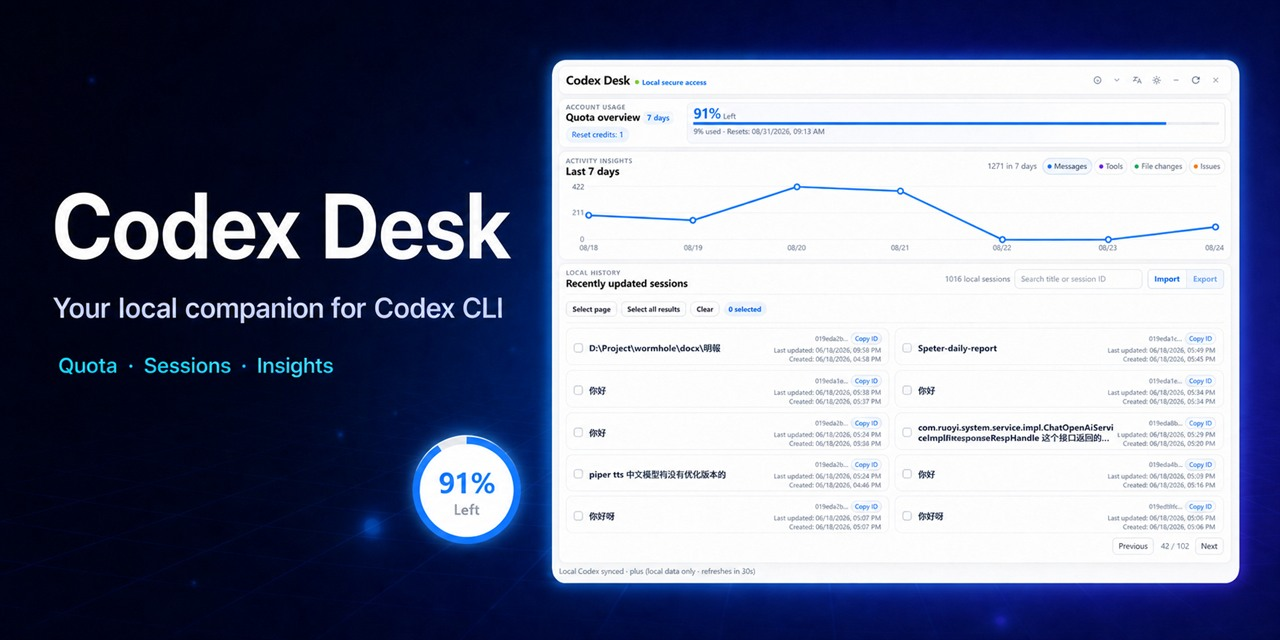
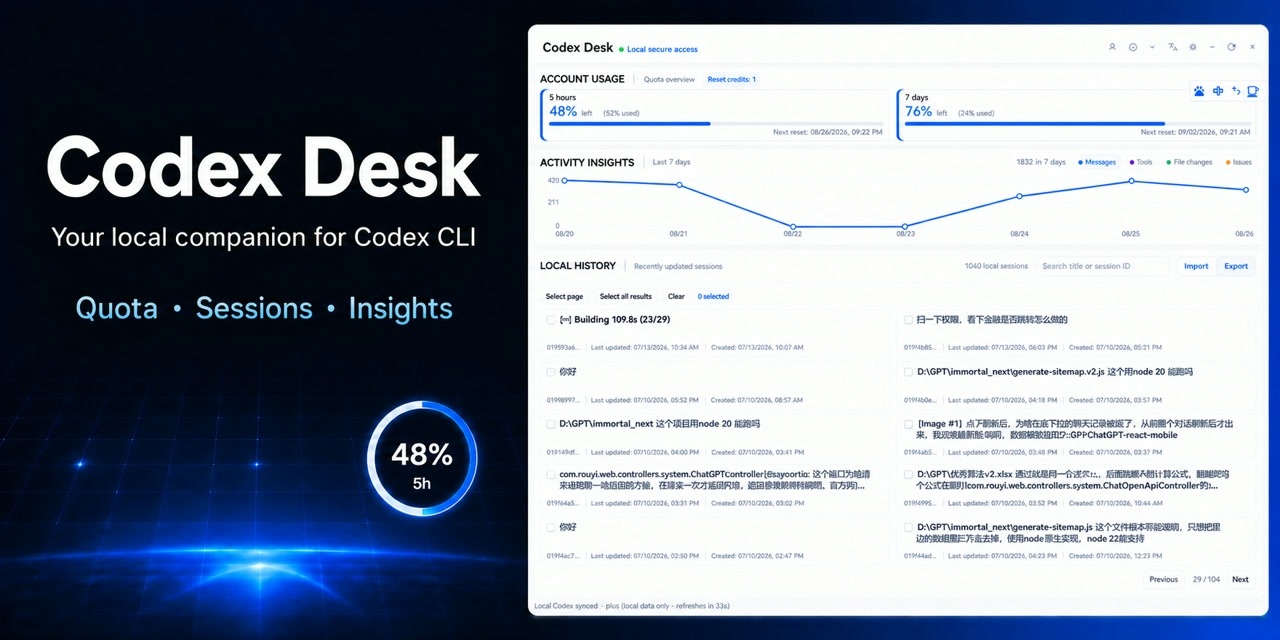
feat: 发布新版本 v1.0.2

diff --git a/README.md b/README.md
@@ -18,6 +18,12 @@ All data is read through the local `codex app-server --stdio` process. Codex Des
 
 If Codex Desk helps you manage your sessions, please consider giving the project a **Star**. Feedback and bug reports are welcome through [Issues](https://github.com/xiaotao-xiaotao/codex-desk/issues).
 
+## What's new in v1.0.2
+
+- Refined the compact floating quota orb and unified scrollbar behavior across scrollable views.
+- Improved session details with cleaner message actions and more reliable scrolling for recent activity.
+- Refreshed the dashboard, account, diagnostics, and session-detail screenshots.
+
 ## Download
 
 Download the latest installer from [Releases](https://github.com/xiaotao-xiaotao/codex-desk/releases):
@@ -57,24 +63,25 @@ After installation, you still need to install and sign in to Codex CLI separatel
 ## Screenshots
 
 <p align="center">
-  <img src="docs/screenshots/floating-orb.png" alt="Codex Desk floating usage orb" width="240" />
+  <img src="docs/screenshots/quota-orb-light-en.png" alt="Codex Desk light floating usage orb" width="120" />
+  <img src="docs/screenshots/quota-orb-dark-en.png" alt="Codex Desk dark floating usage orb" width="120" />
 </p>
 
 ### Dashboard
 
-![Codex Desk light dashboard](docs/screenshots/dashboard-light.png)
+![Codex Desk light dashboard](docs/screenshots/dashboard-light-en.png)
 
 ### Session details
 
-![Codex Desk session details](docs/screenshots/session-details.png)
+![Codex Desk session details](docs/screenshots/session-details-en.png)
 
 ### Codex CLI diagnostics
 
-![Codex Desk Codex CLI diagnostics](docs/screenshots/diagnostics-dialog.png)
+![Codex Desk Codex CLI diagnostics](docs/screenshots/diagnostics-dialog-en.png)
 
-### Dark mode
+### Account
 
-![Codex Desk dark dashboard](docs/screenshots/dashboard-dark.png)
+![Codex Desk account](docs/screenshots/account-dialog-en.png)
 
 ## Multilingual support
 
